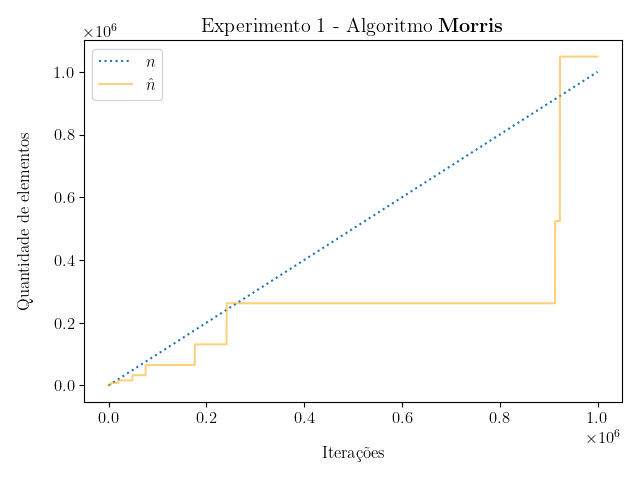
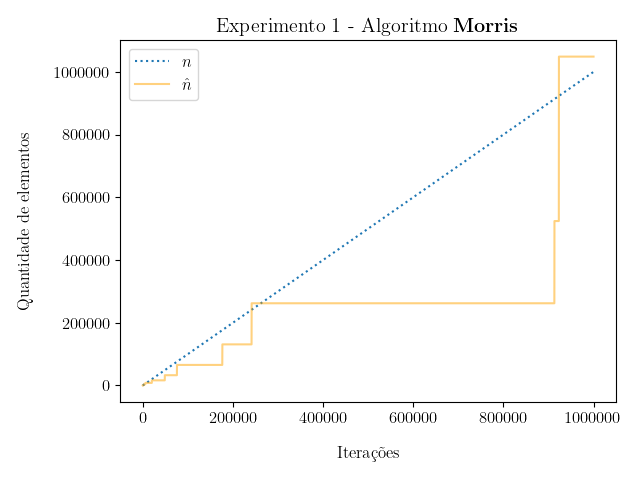
Atualiza imagens dos experimentos do Algoritmo de Morris

diff --git a/estruturas/morris/plot_morris_plus_simulation_01.py b/estruturas/morris/plot_morris_plus_simulation_01.py
@@ -1,4 +1,5 @@
 import json
+from typing import List
 
 import matplotlib
 import matplotlib.pyplot as plt
@@ -34,20 +35,26 @@ if __name__ == "__main__":
         ax.set_ylabel("Quantidade de elementos", labelpad=15)
         ax.set_title(r"Experimento 1 - Algoritmo \textbf{Morris++}")
         ax.legend()
+        ax.ticklabel_format(style="plain")
         plt.tight_layout()
         plt.show()
 
-    def desenha_grafico_02(inicio=0, fim=-1):
+    def desenha_grafico_02(inicio=0, fim=-1, xticks: List[int] = []):
         _, ax = plt.subplots()
         ax.plot(contadores_esperados[inicio:fim], erro_relativo[inicio:fim], alpha=0.5, color="orange")
         ax.set_xlabel("Iterações", labelpad=15)
         ax.set_ylabel("Erro relativo", labelpad=15)
         ax.set_title(r"Experimento 1 - Algoritmo \textbf{Morris++}")
         ax.axhline(y=0, xmin=0, xmax=1000000, linestyle=":")
+        ax.ticklabel_format(style="plain")
+
+        if xticks:
+            ax.set_xticks(xticks)
+
         plt.tight_layout()
         plt.show()
 
     desenha_grafico_01()
     desenha_grafico_02()
     desenha_grafico_02(fim=50)
-    desenha_grafico_02(inicio=50)
+    desenha_grafico_02(inicio=50, xticks=[50, 250000, 500000, 750000, 1000000])

diff --git a/estruturas/morris/run_and_plot_morris_simulation_01.py b/estruturas/morris/run_and_plot_morris_simulation_01.py
@@ -54,6 +54,7 @@ def constroi_grafico(
     ax.set_ylabel("Quantidade de elementos", labelpad=15)
     ax.set_title(r"Experimento 1 - Algoritmo \textbf{Morris}")
     ax.legend()
+    ax.ticklabel_format(style="plain")
     plt.tight_layout()
     plt.show()
 
@@ -79,6 +80,7 @@ def constroi_grafico_erro_relativo(
     ax.set_ylabel("Erro relativo", labelpad=15)
     ax.set_title(r"Experimento 1 - Algoritmo \textbf{Morris}")
     ax.legend()
+    ax.ticklabel_format(style="plain")
     plt.tight_layout()
     plt.show()
 

diff --git a/estruturas/morris/morris_plus.py b/estruturas/morris/morris_plus.py
@@ -1,4 +1,4 @@
-from morris import Morris
+from .morris import Morris
 
 
 class MorrisPlus:
